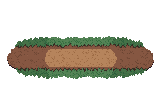
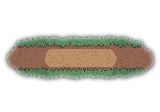
얼룩을 «화면에서 재서» 골라 끼우고 반투명을 꼴로 풀었다 — dust +44→+24 · stain 빈 테를 채우고 · 반투명 0%→9~18% (V-173b)

Changed region(s): [[0.0, 0.2946, 1.0, 0.7232]]

diff --git a/tools/pixellab/decal.py b/tools/pixellab/decal.py
@@ -96,10 +96,54 @@ BASE_DUSK = ("A DISCOLOURED PATCH OF PALE BROWN STONE FLOOR, "
         "absolutely no blue, no navy, no teal, no black, no red, no blood, "
         "transparent background around the patch, no text")
 
+# ★★ V-173 (2026-08-30) — **말로 색을 겨누는 짓을 그만둔다.**
+#   다섯 판이 −26 → +11 → +84 → +126 으로 튀었다. 낱말로는 조준이 안 된다
+#   (★ [[pixellab-side-attack-failures]] — 부정어로 못 막는 것과 같은 벽의 다른 면).
+#   `create_map_object` 에 **`background_image` + `inpainting`** 이 있다. 실제 바닥을
+#   넣어 주면 굽는 쪽이 색과 밝기를 **낱말이 아니라 눈앞의 돌에서** 가져온다.
+#   이건 병수님이 금한 `ctx.filter` 로 «칠하는» 것과 다르다 — 색이 **구운 그림 안에** 든다.
+#
+#   배경은 `hs/main.js` 의 `floorBase()` 를 그대로 재현한다(V-173 의 참과녁):
+#     #241f1b 로 채우고 → crypt_tile 을 alpha 0.55 로 반복해 덮는다.
+#   ★ 화면에서 잰 값(R−B +26)을 쓰면 안 된다 — 그건 `floorTint` 까지 칠해진 뒤이고,
+#     얼룩은 그 칠 **밑에** 깔린다. [[threshold-and-ruler-must-match]]
+FLOOR_TILE = os.path.join(ROOT, "assets", "floor", "crypt_tile.png")
+FLOOR_BASE_RGB = (0x24, 0x1f, 0x1b)
+FLOOR_TILE_ALPHA = 0.55
+
+def floor_bg(w, h):
+    """`floorBase()` 와 같은 바닥을 w×h 로 만들어 base64 로 돌려준다."""
+    from PIL import Image
+    import io
+    tile = Image.open(FLOOR_TILE).convert("RGB")
+    bg = Image.new("RGB", (w, h), FLOOR_BASE_RGB)
+    tw, th = tile.size
+    lay = Image.new("RGB", (w, h))
+    for y in range(0, h, th):
+        for x in range(0, w, tw):
+            lay.paste(tile, (x, y))
+    bg = Image.blend(bg, lay, FLOOR_TILE_ALPHA)
+    buf = io.BytesIO(); bg.save(buf, "PNG")
+    return base64.b64encode(buf.getvalue()).decode()
+
+# 얼룩이 배경의 몇 할을 덮는가. 너무 크면 가장자리 돌이 안 남아 색을 못 베끼고,
+# 너무 작으면 얼룩이 캔버스 한가운데 점이 된다.
+INPAINT_FRACTION = 0.62
+
+# ★ 배경을 줄 때는 조리법에서 **색을 빼고 꼴만 말한다.** 색은 배경이 정한다 —
+#   낱말로 또 겨누면 다섯 판의 실수를 여섯 번째로 되풀이하는 것이다.
+BASE_BG = ("a worn discoloured patch on this stone floor, "
+        "the same stone as the background but stained and duller, "
+        "seen straight from above, lying completely flat with no thickness, "
+        "one irregular organic blotch with ragged uneven edges, "
+        "grim gothic dark fantasy pixel art, evenly lit, "
+        "blending into the surrounding floor, no text")
+
 DUSK = "--dusk" in sys.argv
 STAIN = "--stain" in sys.argv
 WARM = "--warm" in sys.argv
-BASE = BASE_DUSK if DUSK else (BASE_STAIN if STAIN else (BASE_WARM if WARM else BASE_COLD))
+BG   = "--bg" in sys.argv       # ★ V-173 — 실제 바닥을 배경으로 넣고 그 위에 그리게 한다
+BASE = BASE_BG if BG else (BASE_DUSK if DUSK else (BASE_STAIN if STAIN else (BASE_WARM if WARM else BASE_COLD)))
 
 OBJ = {
   # ── 던전 ── 밟아 닳은 자리·물자국·부스러기
@@ -164,8 +208,15 @@ if __name__ == "__main__":
     for k in todo:
         desc, w, h = OBJ[k]
         try:
-            t = text_of(mcp("create_map_object", {"description": desc,
-                                                  "width": w, "height": h, **COMMON}))
+            args = {"description": desc, "width": w, "height": h, **COMMON}
+            if BG:
+                # 배경을 주면 결과는 «바닥+얼룩» 한 판으로 온다(투명 여백이 아니다).
+                # 얼룩만 떼어내는 것은 decal_extract.py 가 한다.
+                args["background_image"] = json.dumps({"type": "base64",
+                                                       "base64": floor_bg(w, h)})
+                args["inpainting"] = json.dumps({"type": "oval",
+                                                 "fraction": INPAINT_FRACTION})
+            t = text_of(mcp("create_map_object", args))
             m = re.search(r"id:\s*(\S+)", t)
             if not m:
                 print(f"실패 {k} — {t[:200]}", flush=True); continue

diff --git a/tools/pixellab/decal_extract.py b/tools/pixellab/decal_extract.py
@@ -1,0 +1,81 @@
+#!/usr/bin/env python3
+"""구운 얼룩을 **바닥에 스미게** 마무리한다 (V-173).
+
+★ 첫 판의 전제가 틀렸다. `create_map_object` 에 `background_image` 를 줘도 결과는
+  «바닥+얼룩» 한 판이 **아니다** — 바닥은 «결 맞추기» 힌트로만 쓰이고 돌아오는 것은
+  여전히 **투명 여백을 두른 오려낸 판**이다(네 장 다 네 귀퉁이 알파 0). 그래서
+  「배경과 견줘 알파를 얻는다」는 방법은 성립하지 않는다.
+
+남는 진짜 결함은 하나 — **반투명이 한 픽셀도 없다**(여섯 판 전부 0.0%). 픽셀 아트는
+원래 반투명을 안 쓰므로 **굽기로는 못 얻는다.** 그런데 얼룩은 정의상 「가장자리가
+스미며 사라지는 것」이라 이게 없으면 오려 붙인 판으로 보인다.
+
+그러니 **가장자리만 깎는다** — 색은 한 픽셀도 안 건드린다(병수님이 금한 «칠하기»가
+아니다. 칠하는 것은 색이고, 여기서 손대는 것은 **꼴**이다).
+
+  python3 tools/pixellab/decal_extract.py assets/decal
+"""
+import os, sys
+
+HERE = os.path.dirname(os.path.abspath(__file__))
+ROOT = os.path.abspath(os.path.join(HERE, "..", ".."))
+sys.path.insert(0, HERE)
+from decal import floor_bg  # noqa
+
+import base64, io
+from PIL import Image, ImageFilter
+
+FEATHER = 2.2        # 가장자리를 이만큼 흐린다 — 여기서 반투명이 생긴다
+ALPHA_MAX = 232      # 완전 불투명은 피한다 — 얼룩은 바닥을 «물들이는» 것이다
+DEC_A = 0.59         # `map.js` scatter 의 a (0.42~0.76) 한가운데 — 화면 합성용
+
+
+def floor_stats():
+    b = Image.open(io.BytesIO(base64.b64decode(floor_bg(64, 64)))).convert("RGB")
+    p = list(b.getdata()); n = len(p)
+    r = sum(q[0] for q in p) / n; g = sum(q[1] for q in p) / n; bl = sum(q[2] for q in p) / n
+    return r, g, bl
+
+
+def finish(path, out_path):
+    im = Image.open(path).convert("RGBA")
+    a = im.getchannel("A")
+    # 알파를 흐려 가장자리를 스미게 한다. 색(RGB)은 그대로 둔다.
+    a = a.point(lambda v: min(v, ALPHA_MAX))
+    a = a.filter(ImageFilter.GaussianBlur(FEATHER))
+    out = im.copy(); out.putalpha(a)
+    out.save(out_path)
+    return out
+
+
+def measure(im, label, fr, fg, fb):
+    d = list(im.getdata()); n = len(d)
+    op = [p for p in d if p[3] > 200]
+    soft = sum(1 for p in d if 20 < p[3] < 200) / n * 100
+    if not op:
+        print(f"  {label}: 불투명 없음  반투명 {soft:.1f}%"); return
+    m = len(op)
+    r = sum(p[0] for p in op) / m; g = sum(p[1] for p in op) / m; b = sum(p[2] for p in op) / m
+    # 화면에서 실제로 보이는 값 — 바닥 위에 a 로 얹었을 때
+    sr = fr * (1 - DEC_A) + r * DEC_A; sg = fg * (1 - DEC_A) + g * DEC_A; sb = fb * (1 - DEC_A) + b * DEC_A
+    fbr = (fr + fg + fb) / 3
+    print(f"  {label}: 원본 밝기 {(r+g+b)/3:5.1f} R-B {r-b:+5.1f} │ "
+          f"화면 밝기 {(sr+sg+sb)/3:5.1f} (바닥 {fbr:.1f}, 차 {(sr+sg+sb)/3-fbr:+5.1f}) │ 반투명 {soft:4.1f}%")
+
+
+if __name__ == "__main__":
+    src = sys.argv[1] if len(sys.argv) > 1 else "assets/decal"
+    src = src if os.path.isabs(src) else os.path.join(ROOT, src)
+    dst = src.rstrip("/") + "_soft"
+    os.makedirs(dst, exist_ok=True)
+    fr, fg, fb = floor_stats()
+    print(f"바닥 floorBase: 밝기 {(fr+fg+fb)/3:.1f}  R-B {fr-fb:+.1f}   (얼룩은 a≈{DEC_A} 로 얹힌다)\n")
+    for f in sorted(os.listdir(src)):
+        if not f.endswith(".png"):
+            continue
+        before = Image.open(os.path.join(src, f)).convert("RGBA")
+        measure(before, f[:-4] + " (전)", fr, fg, fb)
+        after = finish(os.path.join(src, f), os.path.join(dst, f))
+        measure(after, f[:-4] + " (후)", fr, fg, fb)
+        print()
+    print(f"══ {dst}")
